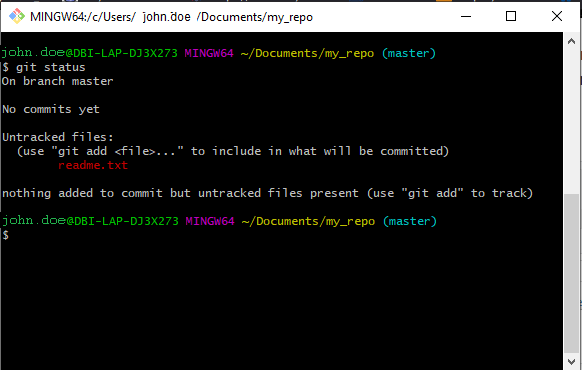
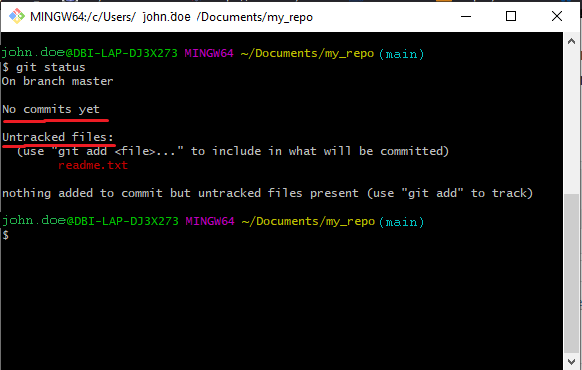
Add `Working with Branches in Git Bash` section
- Add more highlighting to images

diff --git a/README.md b/README.md
@@ -120,7 +120,7 @@ from time to time:
 
 -   `rm` - short for **r**e**m**ove, deletes files and folders. ***Note
     that this bypasses the Recycling Bin and permanently deletes the
-    file***
+    file.***
 
     ``` sh
     rm data.csv
@@ -157,6 +157,14 @@ Copy and paste the line below into the command prompt:
 
 ``` sh
 git config --global core.editor notepad
+```
+
+Finally, we will set up a default **branch** name. We will go over the
+concept of **branches** in more detail later on in the tutorial. As
+before, copy and paste the following line into Git Bash:
+
+``` sh
+git config --global init.defaultBranch main
 ```
 
 Once you’ve run all of these commands, you can close out of Git Bash.
@@ -451,8 +459,7 @@ repository with our remote repository. Here, `origin` refers to our
 GitHub repo, and is a “nickname” that GitHub chose for us by default
 when we first pushed our local repository, but we could have easily
 chosen a different name. It is also possible to have multiple remote
-copies, each with their own “nicknames”, but that is outside of the
-scope of this tutorial.
+copies, each with their own “nicknames”.
 
 ![](img/gitpushoriginnamecmd.png)
 
@@ -500,36 +507,79 @@ Pull Requests rely on a feature built in to Git known as **branches**.
 
 ## Git Branches
 
-Every Git repository consists of one or more **branches**. By default,
-the first branch Git creates is the **master** branch\*, but a repo may
-consist of any number of branches, each of which may have a completely
-different history of commits. Consider the following diagram:
+Every Git repository consists of one or more **branches**. If you recall
+from the **Configuring Git** section of the tutorial, we configured Git
+to use **main** as the default branch name, but a repo may consist of
+any number of branches, each of which may have a completely different
+history of commits. Consider the following diagram:
 
 ![](img/branchflowchart.png)
 
 Here, each circle represents a commit. Each arrow points to the next
-commit in chronological order. The bottom line is the **master** branch,
+commit in chronological order. The bottom line is the **main** branch,
 which diverges after the second commit into a *parallel* set of commits
 under the branch name **bugfix**. Notice how, after the second
 **bugfix** commit, the last arrow, labelled **Pull Request**, points to
-the last commit of the **master** branch, indicating that the two
-branches have converged back into a single branch containing the commits
-from *both* branches.
-
-<font size = "3">*\*More recent versions of Git have changed the default
-branch to main, which is also the default branch on GitHub. Depending on
-when you installed Git, the repo you created earlier may be labelled
-main instead of master.*</font>
+the last commit of the **main** branch, indicating that the two branches
+have converged back into a single branch containing the commits from
+*both* branches.
 
 This merging functionality also applies when merging together two
-**master** branches, which happens when two people are working on
-separate copies of the same repo, as in this diagram:
+**main** branches, which happens when two people are working on separate
+copies of the same repo, as in this diagram:
 
 ![](img/branchflowchart2.png)
 
-Here, there are two master branches: the original, created by Victor,
-and another, created by Jacob after the third commit. As before, we can
+Here, there are two **main** branches: the original, created by Victor,
+and another created by Jacob after the third commit. As before, we can
 use a Pull Request to merge together the two branches.
+
+## Working with Branches in Git Bash
+
+Before we dive into Pull Requests, let’s briefly demonstrate how
+branching works in Git via the command line. Creating a branch from the
+Git command line involves only two commands:
+
+``` sh
+git branch bugfix
+git checkout bugfix
+```
+
+The `git branch` command creates a new branch called **bugfix**, which
+is an exact copy of the **main** branch, and the `git checkout` command
+switches over to the **bugfix** branch. Now, any commits we make on
+**bugfix** will be completely isolated from **main**, and vice versa,
+leading to the parallel commit histories we saw in the diagrams.
+
+Let’s edit our `readme.txt` file again by adding the line below:
+
+``` sh
+This is a bugfix.
+```
+
+As always, `git add` and `git commit` your file, then open up another
+Git Bash window in your repo folder and enter in `git checkout main`.
+Try typing in `git log` in both instances of Git Bash. Comparing the
+output of the two should show that the **bugfix** window lists the
+commit you just made, but the **main** window does not.
+
+![](img/gitbranchcomparison.png)
+
+To merge these divergent branches together, we can use the command
+`git merge`.
+
+``` sh
+git merge main bugfix
+```
+
+Now if we use `git log` in our **main** branch window, the commit
+histories will be identical.
+
+![](img/gitbranchcomparisonmerged.png)
+
+We have now learned the basics of creating and merging branches in Git
+Bash, and we can spend the rest of the tutorial learning how to
+accomplish the same thing using Pull Requests on GitHub.
 
 ## Creating Pull Requests
 
@@ -572,7 +622,7 @@ enter a name for your pull request in the first textbox and add comments
 in the second one, if you’d like. Also note that, like the `git diff`
 command we used earlier, GitHub shows us exactly which lines changed
 between the **main** branch version of our `readme.txt` file and the
-**mybranch** version of the file.
+**test** version of the file.
 
 ![githubpullrequestpage](img/githubpullrequestpage.png)
 
@@ -593,7 +643,7 @@ Since the changes we made are small and conflict-free, as GitHub
 helpfully points out, we can simply click the **Merge pull request
 button** to run the merge. The page will then update, marking the Pull
 request as **Merged**. Now that we’ve merged in our changes, feel free
-to delete **mybranch**.
+to delete **test**.
 
 ![pullrequestmerged](img/pullrequestmerged.png)
 
